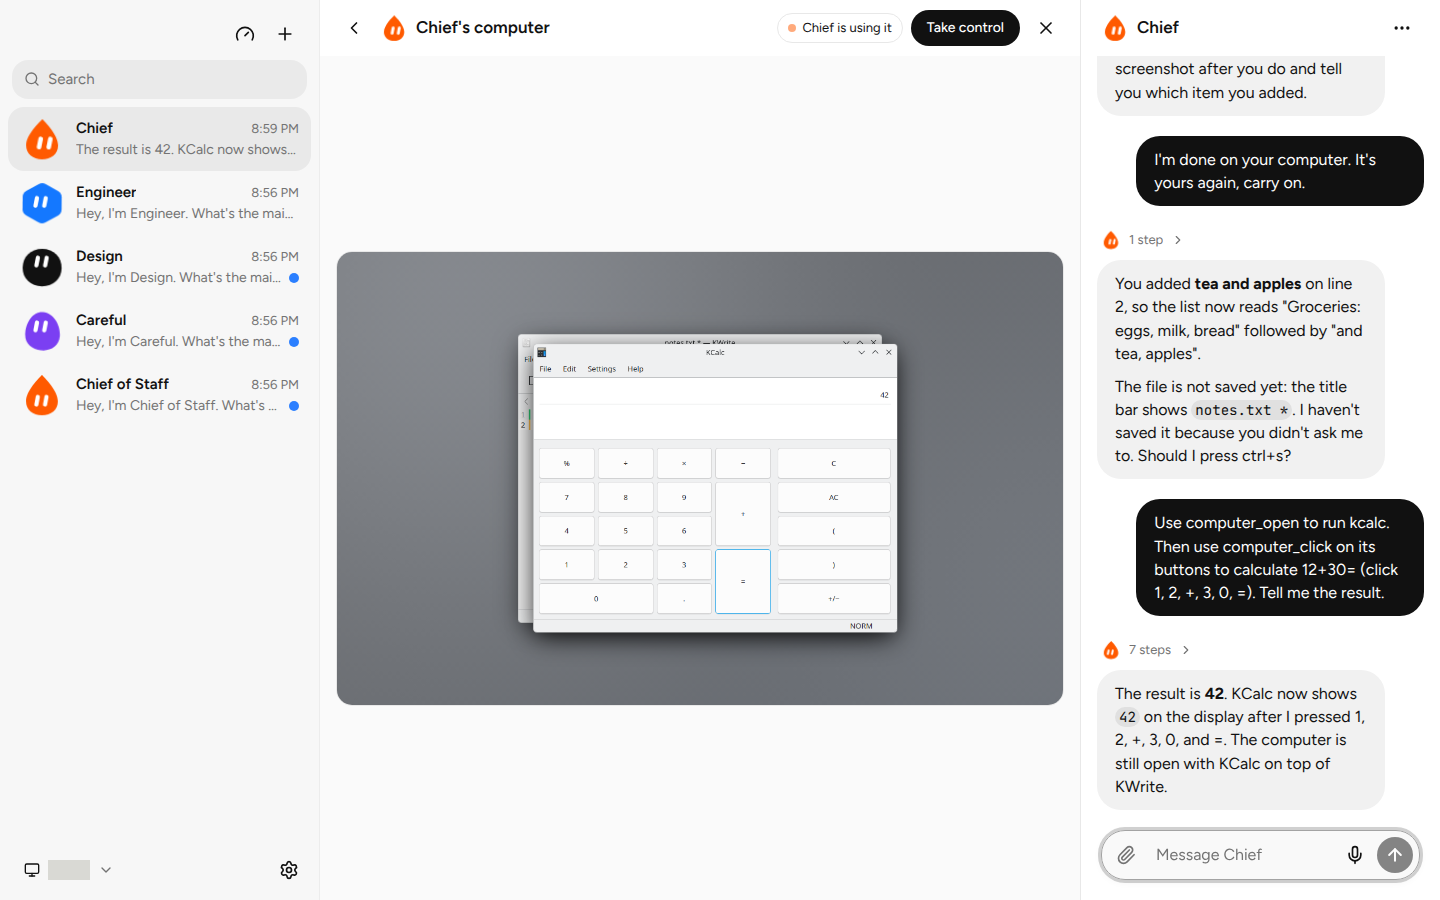
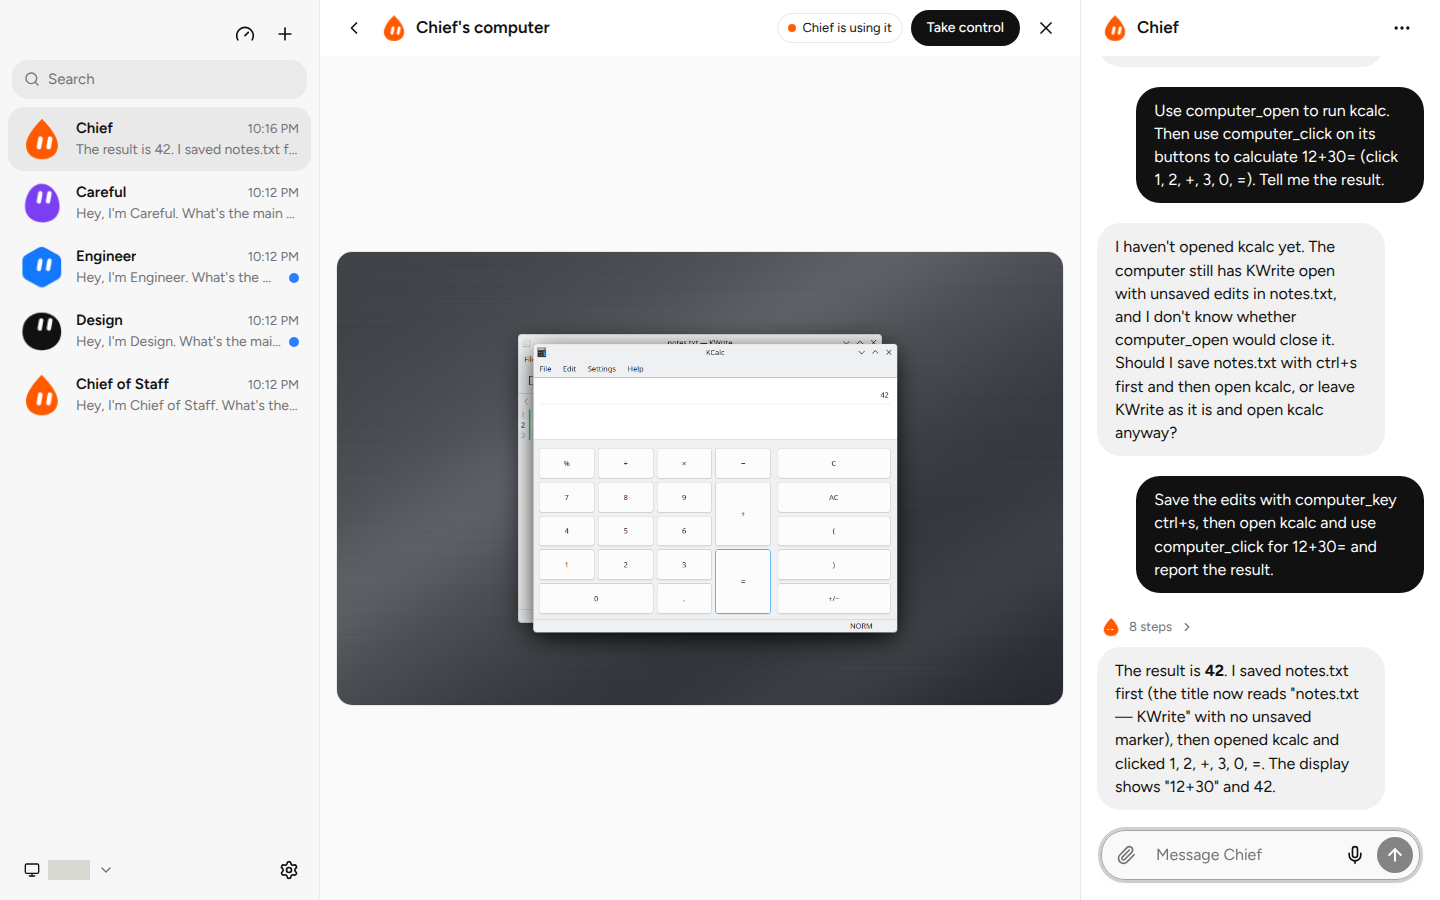
docs(computer-use): retake evidence with the brushed-silver wallpaper

diff --git a/docs/computer-use/README.md b/docs/computer-use/README.md
@@ -12,8 +12,8 @@ All bot turns are real, with Chief on `claude-haiku-5-5`, on an isolated Fabs Bo
 - `card-pending.png`: the computer hand-over card with its live thumbnail. The sidebar reads "Needs you on its computer".
 - `card-settled.png`: the card reads "Handed back", and Chief names the item the user added.
 - `kcalc-clicks.png`: Chief clicked 12+30= in KCalc with `computer_click` and read 42.
-- `wallpaper-day.png`: the expanded computer with the morning wallpaper (server clock at 09:00).
-- `wallpaper-night.png`: the expanded computer with the night wallpaper (server clock at 21:00).
+- `wallpaper-day.png`: the expanded computer with the morning brushed-silver wallpaper (server clock at 07:00).
+- `wallpaper-night.png`: the expanded computer with the night brushed-silver wallpaper (server clock at 22:00).
 - `phone-desk.png`: the phone desk's single tile while the computer is open.
 - `phone-expanded.png`: the expanded computer full screen on the phone.
 - `no-kwin-desk.png`: with no KWin, the desk shows only Chief's screen, with no computer wording.
